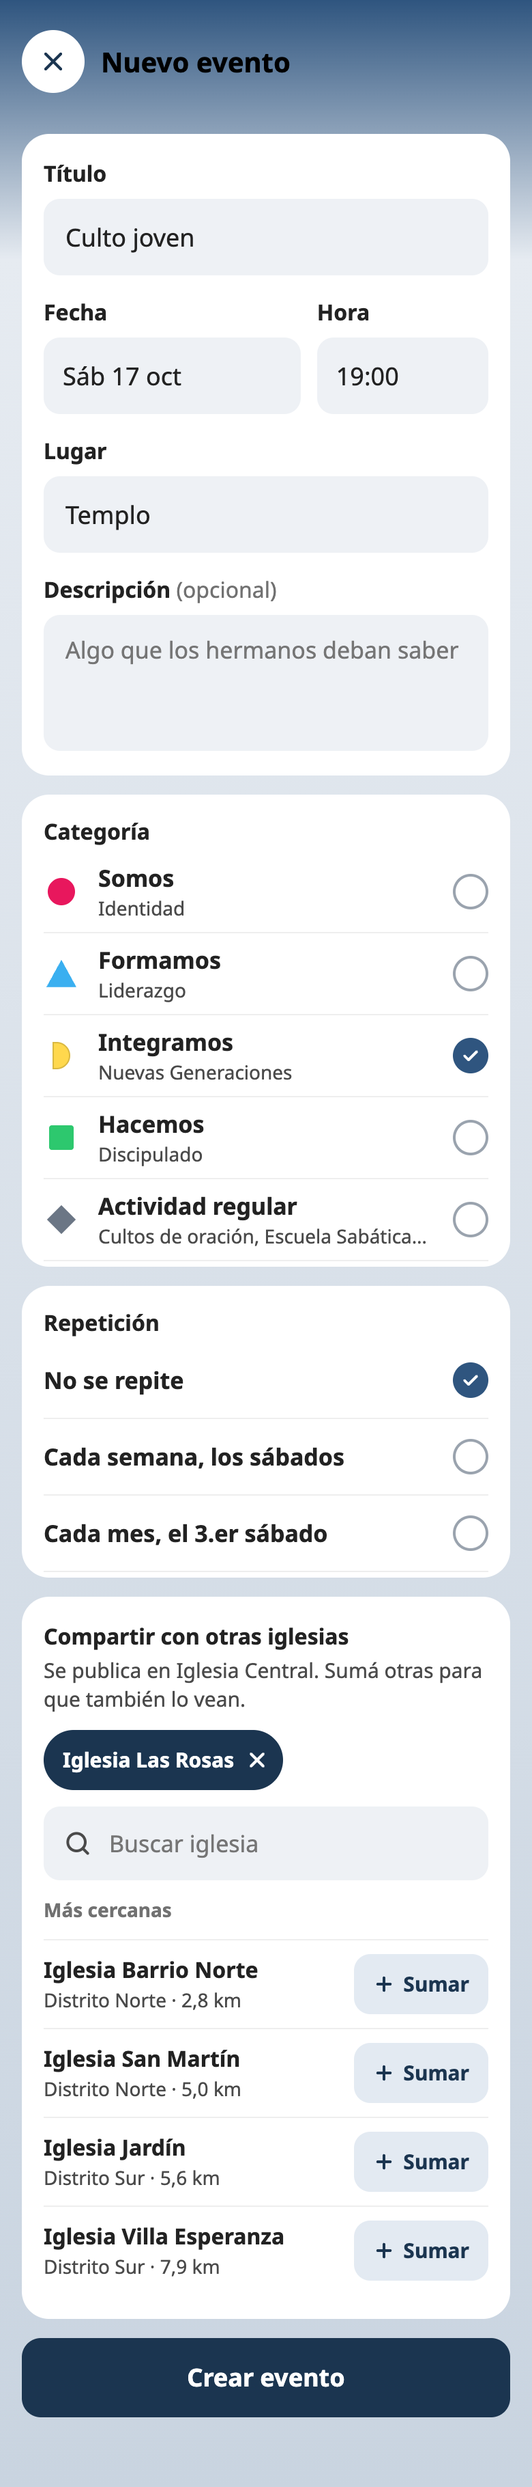
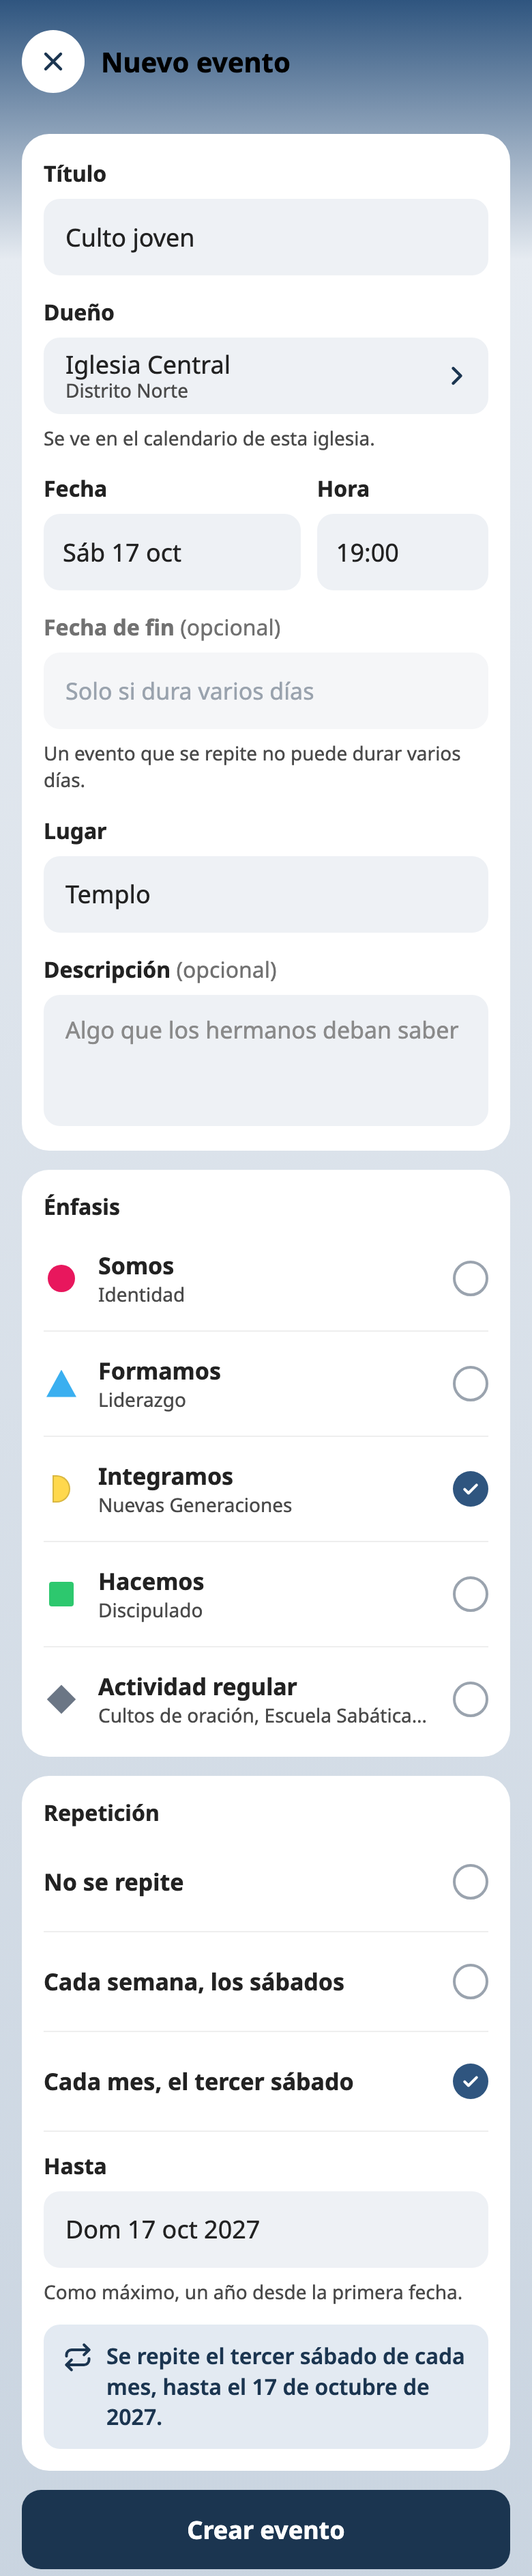
docs(diseno): update Crear evento with duenio, fecha de fin and Hasta (#41)
- Add the Dueño field and the sheet that lists the levels the cargos cover.
- Rename Categoría to Énfasis.
- Add the optional fecha de fin, exclusive with repetición.
- Add Hasta and the sentence that explains the repetición.
- Keep Compartir con otras iglesias in the HTML, off as v2.

diff --git a/diseno/pantallas/06-crear-evento.html b/diseno/pantallas/06-crear-evento.html
@@ -14,7 +14,7 @@ body{margin:0;font-family:'Noto Sans','Segoe UI',system-ui,sans-serif;color:#222
 a{color:#1B3550}a:hover{color:#10233A}
 </style>
 </helmet>
-<div style="width: 390px; height: 1820px; box-sizing: border-box; background: linear-gradient(180deg, #2F557F 0px, #E6EBF1 190px, #C9D4E0 100%); display: flex; flex-direction: column; font-family: 'Noto Sans', 'Segoe UI', system-ui, sans-serif; color: #222222">
+<div style="width: 390px; height: 1885px; box-sizing: border-box; background: linear-gradient(180deg, #2F557F 0px, #E6EBF1 190px, #C9D4E0 100%); display: flex; flex-direction: column; font-family: 'Noto Sans', 'Segoe UI', system-ui, sans-serif; color: #222222">
 
   <header style="flex-shrink: 0; padding: 22px 16px 0; display: flex; align-items: center; gap: 12px">
     <a href="Calendario.dc.html" aria-label="Cancelar" style="width: 46px; height: 46px; flex-shrink: 0; border-radius: 50%; background: #FFFFFF; display: flex; align-items: center; justify-content: center; color: #1B3550">
@@ -30,6 +30,20 @@ a{color:#1B3550}a:hover{color:#10233A}
         <label for="titulo" style="font-size: 16px; font-weight: 700">Título</label>
         <input id="titulo" type="text" value="Culto joven" style="height: 56px; box-sizing: border-box; border: 0; border-radius: 12px; background: #EEF1F5; padding: 0 16px; font-size: 18px; font-family: inherit; color: #222222">
       </div>
+      <!-- Dueño: opens the sheet in 6b with the levels the cargos cover. With a single possible dueño it comes chosen and shows no arrow. -->
+      <div style="display: flex; flex-direction: column; gap: 8px">
+        <span id="tDuenio" style="font-size: 16px; font-weight: 700">Dueño</span>
+        <button type="button" aria-labelledby="tDuenio" style="display: flex; align-items: center; justify-content: space-between; gap: 10px; min-height: 56px; box-sizing: border-box; border: 0; border-radius: 12px; background: #EEF1F5; padding: 6px 12px 6px 16px; font-family: inherit; text-align: left; cursor: pointer; color: #222222">
+          <span style="display: flex; flex-direction: column; line-height: 1.2; min-width: 0">
+            <span style="font-size: 18px">{{ duenio.nombre }}</span>
+            <span style="font-size: 14px; color: #4A4A4A">{{ duenio.detalle }}</span>
+          </span>
+          <sc-if value="{{ variosDuenios }}" hint-placeholder-val="{{ true }}">
+            <svg width="22" height="22" viewBox="0 0 24 24" fill="none" stroke="#1B3550" stroke-width="2.4" stroke-linecap="round" stroke-linejoin="round"><path d="M9 6l6 6-6 6"></path></svg>
+          </sc-if>
+        </button>
+        <span style="font-size: 14px; line-height: 1.4; color: #4A4A4A">{{ duenio.seVe }}</span>
+      </div>
       <div style="display: grid; grid-template-columns: 3fr 2fr; gap: 12px">
         <div style="display: flex; flex-direction: column; gap: 8px; min-width: 0">
           <label for="fecha" style="font-size: 16px; font-weight: 700">Fecha</label>
@@ -39,6 +53,14 @@ a{color:#1B3550}a:hover{color:#10233A}
           <label for="hora" style="font-size: 16px; font-weight: 700">Hora</label>
           <input id="hora" type="text" value="19:00" style="height: 56px; width: 100%; box-sizing: border-box; border: 0; border-radius: 12px; background: #EEF1F5; padding: 0 14px; font-size: 18px; font-family: inherit; color: #222222">
         </div>
+      </div>
+      <!-- Fecha de fin: date only, no end time. It excludes repetición: one is disabled while the other is set. -->
+      <div style="display: flex; flex-direction: column; gap: 8px">
+        <label for="fechaFin" style="font-size: 16px; font-weight: 700; color: {{ finColor }}">Fecha de fin <span style="font-weight: 400; color: #717171">(opcional)</span></label>
+        <input id="fechaFin" type="text" value="{{ fechaFin }}" disabled="{{ seRepite }}" placeholder="Solo si dura varios días" style="height: 56px; box-sizing: border-box; border: 0; border-radius: 12px; background: {{ finFondo }}; padding: 0 16px; font-size: 17px; font-family: inherit; color: #222222">
+        <sc-if value="{{ seRepite }}" hint-placeholder-val="{{ true }}">
+          <span style="font-size: 14px; line-height: 1.4; color: #4A4A4A">Un evento que se repite no puede durar varios días.</span>
+        </sc-if>
       </div>
       <div style="display: flex; flex-direction: column; gap: 8px">
         <label for="lugar" style="font-size: 16px; font-weight: 700">Lugar</label>
@@ -51,7 +73,7 @@ a{color:#1B3550}a:hover{color:#10233A}
     </div>
 
     <div role="radiogroup" aria-labelledby="tEnfasis" style="display: flex; flex-direction: column; padding: 16px 16px 4px; border-radius: 20px; background: #FFFFFF">
-      <span id="tEnfasis" style="font-size: 16px; font-weight: 700; margin-bottom: 4px">Categoría</span>
+      <span id="tEnfasis" style="font-size: 16px; font-weight: 700; margin-bottom: 4px">Énfasis</span>
       <sc-for list="{{ enfasis }}" as="en" hint-placeholder-count="5">
         <button type="button" role="radio" aria-checked="{{ en.checked }}" onClick="{{ en.pick }}" style="display: flex; align-items: center; gap: 14px; min-height: 60px; padding: 8px 0; border: 0; border-bottom: 1px solid #EEEEEE; background: transparent; font-family: inherit; text-align: left; cursor: pointer; color: #222222">
           <span style="width: 26px; height: 26px; flex-shrink: 0; display: flex; align-items: center; justify-content: center">
@@ -77,8 +99,11 @@ a{color:#1B3550}a:hover{color:#10233A}
 
     <div role="radiogroup" aria-labelledby="tRep" style="display: flex; flex-direction: column; padding: 16px 16px 4px; border-radius: 20px; background: #FFFFFF">
       <span id="tRep" style="font-size: 16px; font-weight: 700; margin-bottom: 4px">Repetición</span>
+      <sc-if value="{{ tieneFin }}" hint-placeholder-val="{{ false }}">
+        <span style="font-size: 14px; line-height: 1.4; color: #4A4A4A; margin-bottom: 4px">Un evento de varios días no puede repetirse.</span>
+      </sc-if>
       <sc-for list="{{ repes }}" as="r" hint-placeholder-count="3">
-        <button type="button" role="radio" aria-checked="{{ r.checked }}" onClick="{{ r.pick }}" style="display: flex; align-items: center; gap: 14px; min-height: 56px; padding: 8px 0; border: 0; border-bottom: 1px solid #EEEEEE; background: transparent; font-family: inherit; text-align: left; cursor: pointer; color: #222222">
+        <button type="button" role="radio" aria-checked="{{ r.checked }}" disabled="{{ r.disabled }}" onClick="{{ r.pick }}" style="opacity: {{ r.opacity }}; display: flex; align-items: center; gap: 14px; min-height: 56px; padding: 8px 0; border: 0; border-bottom: 1px solid #EEEEEE; background: transparent; font-family: inherit; text-align: left; cursor: pointer; color: #222222">
           <span style="flex: 1; min-width: 0; font-size: 17px; font-weight: 700">{{ r.label }}</span>
           <sc-if value="{{ r.sel }}" hint-placeholder-val="{{ false }}">
             <span style="width: 26px; height: 26px; border-radius: 50%; background: #2F557F; display: flex; align-items: center; justify-content: center; flex-shrink: 0"><svg width="15" height="15" viewBox="0 0 24 24" fill="none" stroke="#FFFFFF" stroke-width="3.2" stroke-linecap="round" stroke-linejoin="round"><path d="M5 12.5l4.5 4.5L19 7.5"></path></svg></span>
@@ -88,12 +113,26 @@ a{color:#1B3550}a:hover{color:#10233A}
           </sc-if>
         </button>
       </sc-for>
+      <!-- Hasta: required for a serie, suggested one year after the first date and capped there. Editing a serie caps it one year after the day of the edit. -->
+      <sc-if value="{{ seRepite }}" hint-placeholder-val="{{ true }}">
+        <div style="display: flex; flex-direction: column; gap: 8px; margin-top: 14px">
+          <label for="hasta" style="font-size: 16px; font-weight: 700">Hasta</label>
+          <input id="hasta" type="text" value="{{ hasta }}" style="height: 56px; box-sizing: border-box; border: 0; border-radius: 12px; background: #EEF1F5; padding: 0 16px; font-size: 18px; font-family: inherit; color: #222222">
+          <span style="font-size: 14px; line-height: 1.4; color: #4A4A4A">Como máximo, un año desde la primera fecha.</span>
+        </div>
+        <div role="status" style="display: flex; gap: 10px; align-items: flex-start; margin: 14px 0 12px; padding: 12px 14px; border-radius: 12px; background: #E3EAF2; color: #1B3550">
+          <svg width="22" height="22" viewBox="0 0 24 24" fill="none" stroke="currentColor" stroke-width="2.2" stroke-linecap="round" stroke-linejoin="round" style="flex-shrink: 0; margin-top: 1px"><path d="M17 2l4 4-4 4"></path><path d="M3 11v-1a4 4 0 0 1 4-4h14"></path><path d="M7 22l-4-4 4-4"></path><path d="M21 13v1a4 4 0 0 1-4 4H3"></path></svg>
+          <span style="font-size: 16px; line-height: 1.4; font-weight: 600">{{ frase }}</span>
+        </div>
+      </sc-if>
     </div>
 
+    <!-- v2 (#14): sharing with other iglesias. Kept here so it does not need a new design; off in v1. -->
+    <sc-if value="{{ conCompartir }}" hint-placeholder-val="{{ false }}">
     <div style="display: flex; flex-direction: column; gap: 12px; padding: 18px 16px; border-radius: 20px; background: #FFFFFF">
       <div style="display: flex; flex-direction: column; gap: 4px">
         <span style="font-size: 16px; font-weight: 700">Compartir con otras iglesias</span>
-        <span style="font-size: 15px; line-height: 1.4; color: #4A4A4A">Se publica en Iglesia Central. Sumá otras para que también lo vean.</span>
+        <span style="font-size: 15px; line-height: 1.4; color: #4A4A4A">Se publica en {{ duenio.nombre }}. Sumá otras para que también lo vean.</span>
       </div>
 
       <sc-if value="{{ hayElegidas }}" hint-placeholder-val="{{ true }}">
@@ -133,17 +172,21 @@ a{color:#1B3550}a:hover{color:#10233A}
         </sc-if>
       </div>
     </div>
+    </sc-if>
 
     <a href="Calendario.dc.html" style="display: flex; align-items: center; justify-content: center; min-height: 58px; border-radius: 14px; background: #1B3550; color: #FFFFFF; font-size: 18px; font-weight: 700; text-decoration: none">Crear evento</a>
   </div>
 </div>
 </x-dc>
-<script type="text/x-dc" data-dc-script data-props='{"$preview":{"width":390,"height":1820}}'>
+<script type="text/x-dc" data-dc-script data-props='{"$preview":{"width":390,"height":1885}}'>
 class Component extends DCLogic {
   renderVals() {
     const st = this.state || {};
+    // The capture shows one chosen; the app opens with none and cannot save until one is (#33).
     const enSel = st.en || 'I';
-    const rep = st.rep || 'no';
+    const rep = st.rep || 'mes';
+    const fechaFin = st.fin || '';
+    const conCompartir = false; // v2
     const elegidasIds = st.eleg || ['rosas'];
     const q = st.q || '';
 
@@ -174,13 +217,30 @@ class Component extends DCLogic {
 
     // Fecha elegida: sábado 17 de octubre de 2026
     const dia = 17, nombreDia = 'sábado', plural = 'sábados';
-    const ordinales = ['1.er', '2.º', '3.er', '4.º', 'último'];
+    // The fifth of its kind in the month becomes "the last" (#14).
+    const ordinales = ['primer', 'segundo', 'tercer', 'cuarto', 'último'];
     const pos = ordinales[Math.min(Math.ceil(dia / 7), 5) - 1];
+    const tieneFin = fechaFin !== '';
+    const seRepite = rep !== 'no';
     const repes = [
       { id: 'no', label: 'No se repite' },
       { id: 'sem', label: 'Cada semana, los ' + plural },
       { id: 'mes', label: 'Cada mes, el ' + pos + ' ' + nombreDia }
-    ].map((r) => ({ ...r, sel: r.id === rep, notSel: r.id !== rep, checked: r.id === rep ? 'true' : 'false', pick: () => this.setState({ rep: r.id }) }));
+    ].map((r) => {
+      const disabled = tieneFin && r.id !== 'no';
+      return { ...r, disabled, opacity: disabled ? 0.45 : 1, sel: r.id === rep, notSel: r.id !== rep, checked: r.id === rep ? 'true' : 'false', pick: () => this.setState({ rep: r.id }) };
+    });
+
+    // Hasta: one year after the first date, sábado 17 de octubre de 2026.
+    const hasta = 'Dom 17 oct 2027';
+    const hastaLargo = '17 de octubre de 2027';
+    const frase = rep === 'sem'
+      ? 'Se repite todos los ' + plural + ', hasta el ' + hastaLargo + '.'
+      : 'Se repite el ' + pos + ' ' + nombreDia + ' de cada mes, hasta el ' + hastaLargo + '.';
+
+    // Dueño: the levels the cargos cover (a pastor of Distrito Norte here).
+    const duenio = { nombre: 'Iglesia Central', detalle: 'Distrito Norte', seVe: 'Se ve en el calendario de esta iglesia.' };
+    const variosDuenios = true;
 
     const elegidas = IGL.filter((ig) => elegidasIds.includes(ig.id)).map((ig) => ({
       ...ig,
@@ -199,6 +259,9 @@ class Component extends DCLogic {
 
     return {
       enfasis, repes, elegidas, resultados, q,
+      duenio, variosDuenios, fechaFin, tieneFin, seRepite, hasta, frase, conCompartir,
+      finColor: seRepite ? '#717171' : '#222222',
+      finFondo: seRepite ? '#F5F6F8' : '#EEF1F5',
       hayElegidas: elegidas.length > 0,
       sinResultados: resultados.length === 0,
       listaTitulo: q.trim() ? 'Resultados, de la más cercana a la más lejana' : 'Más cercanas',

diff --git a/diseno/README.md b/diseno/README.md
@@ -7,6 +7,9 @@ Diseño aprobado de "Agenda de iglesia". Es la referencia visual para implementa
   - Están en un formato propio del editor de diseño (`<x-dc>`, `{{ variables }}`, `<sc-if>`, `<sc-for>`). Los datos de ejemplo y la lógica de cada pantalla están en el `<script>` del final.
   - `04b-calendario-pastor.html` reutiliza `04a-calendario.html` con `rol="pastor"`: es la misma pantalla con filtro por iglesia, botón "Nuevo evento" y la pestaña Gestión.
 - `capturas/` — PNG de cada pantalla (exportar desde el lienzo de diseño: Share › Export).
+  - `6b · Crear evento (dueño).png` es la hoja que se abre al tocar "Dueño" en Crear evento: los niveles que abarcan los cargos de quien carga, agrupados en Asociación, Distrito e Iglesias.
+  - Las capturas de Crear evento salen de un render a 2x (780 px de ancho), porque `support.js` del editor no está en el repositorio.
+- Lo que es de la v2 queda en el HTML, apagado y marcado con un comentario `v2`: por ejemplo, "Compartir con otras iglesias" en Crear evento. No se implementa en la v1.
 - `logo-iglesia.svg` — logo vectorizado, sin color fijo (`currentColor`). Es una aproximación calcada; reemplazar por el SVG oficial cuando esté disponible.
 - `theme.ts` — tokens del tema (colores, degradado, categorías con forma y color, tipografías, radios, tamaños mínimos). Usar siempre estos valores. La app los importa desde `src/shared/theme.ts`, que reexporta este archivo.
 
